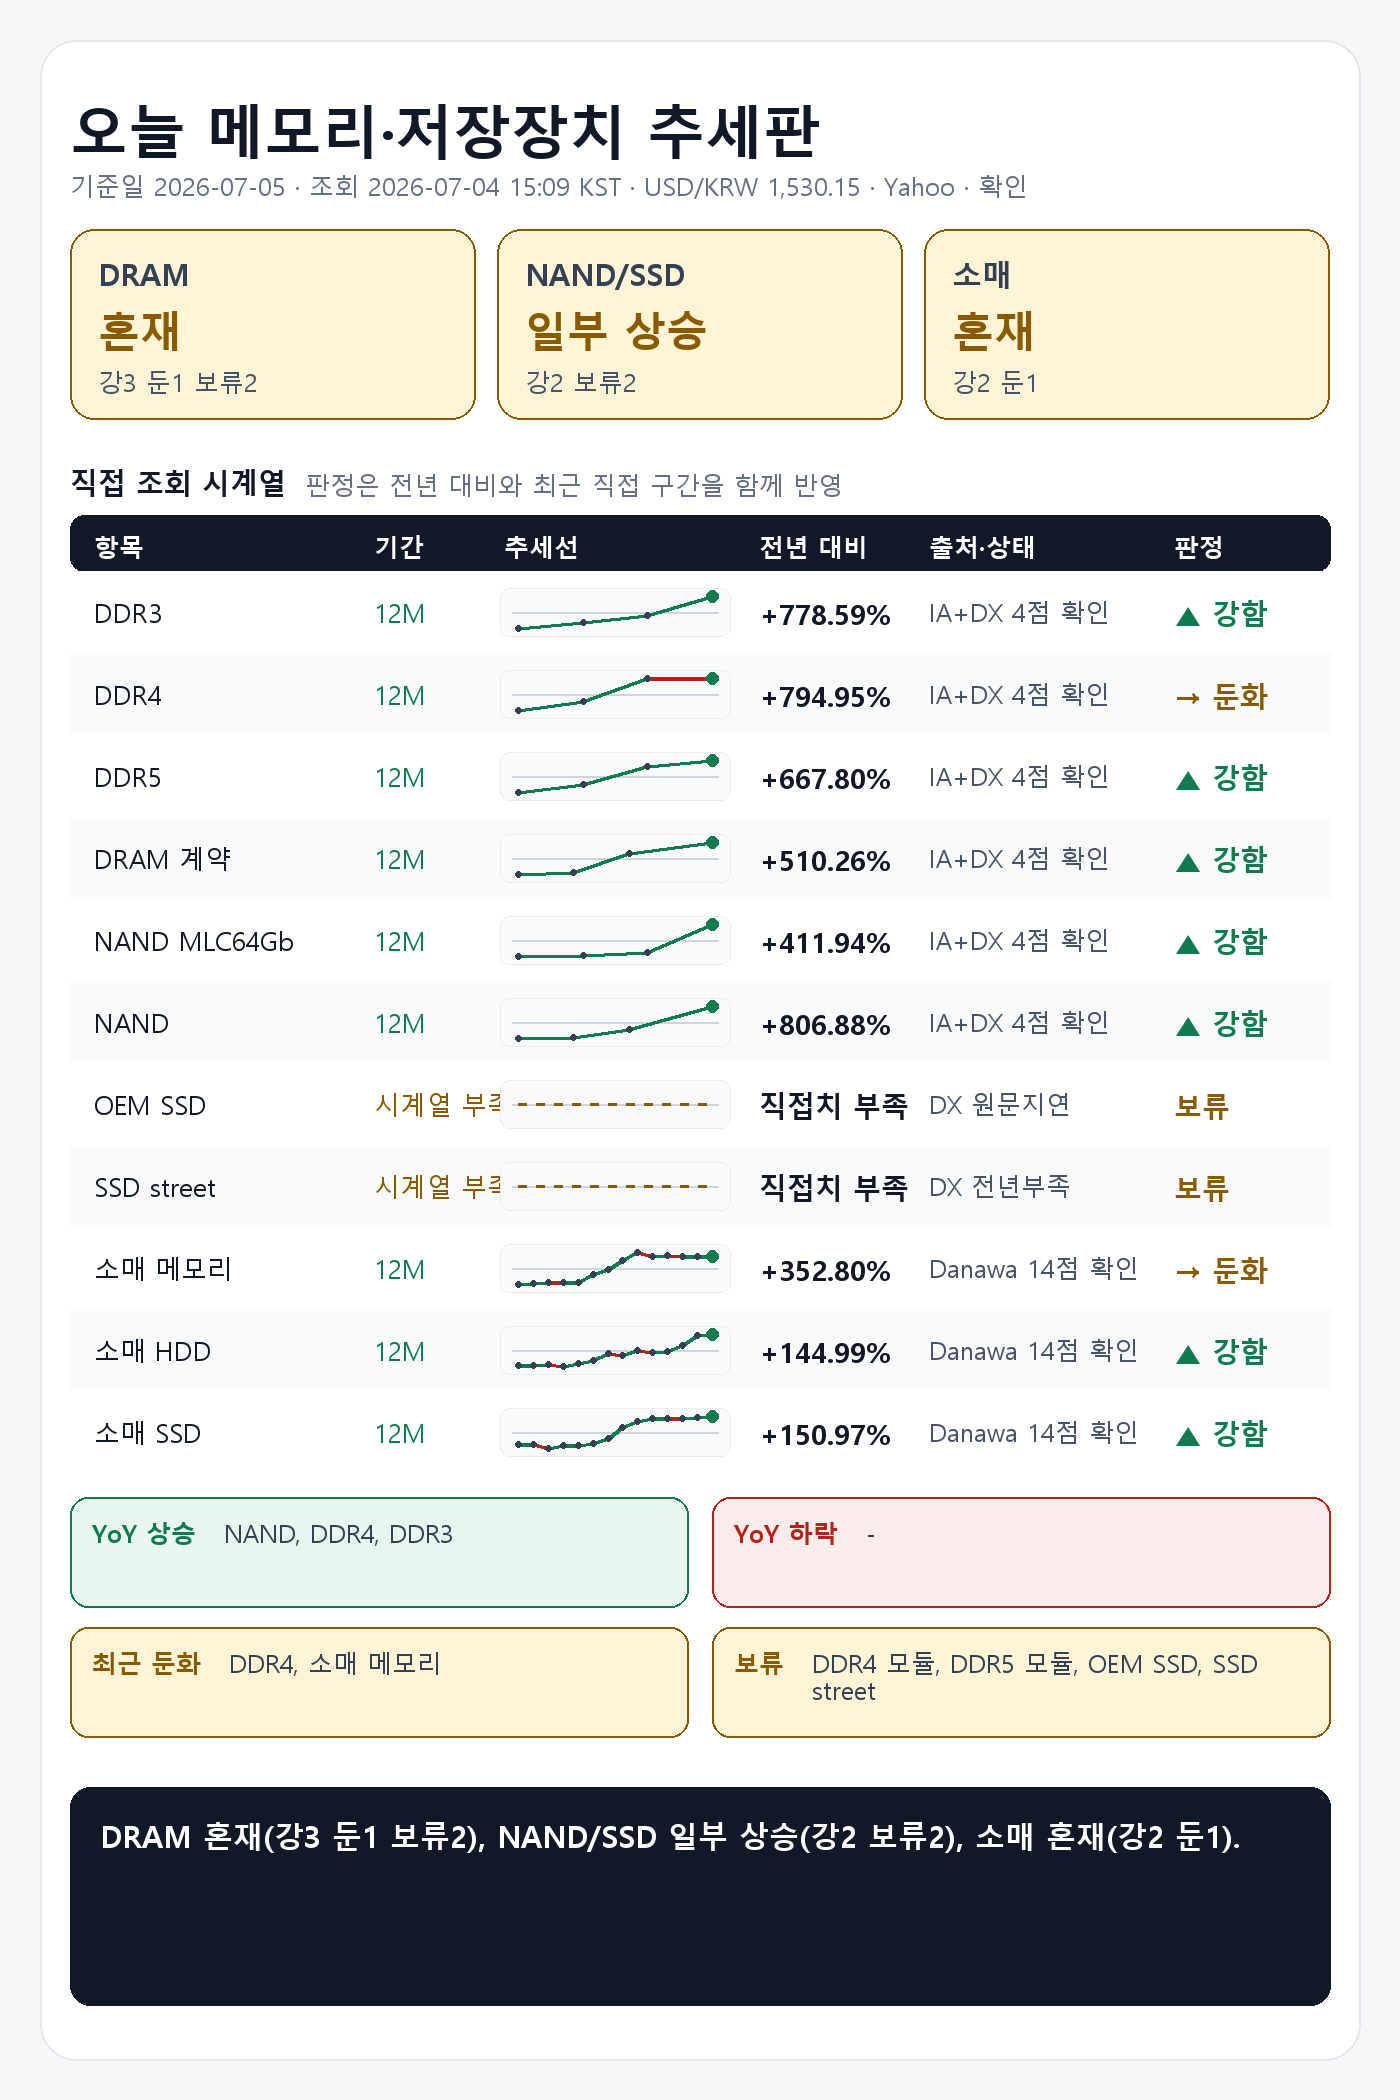
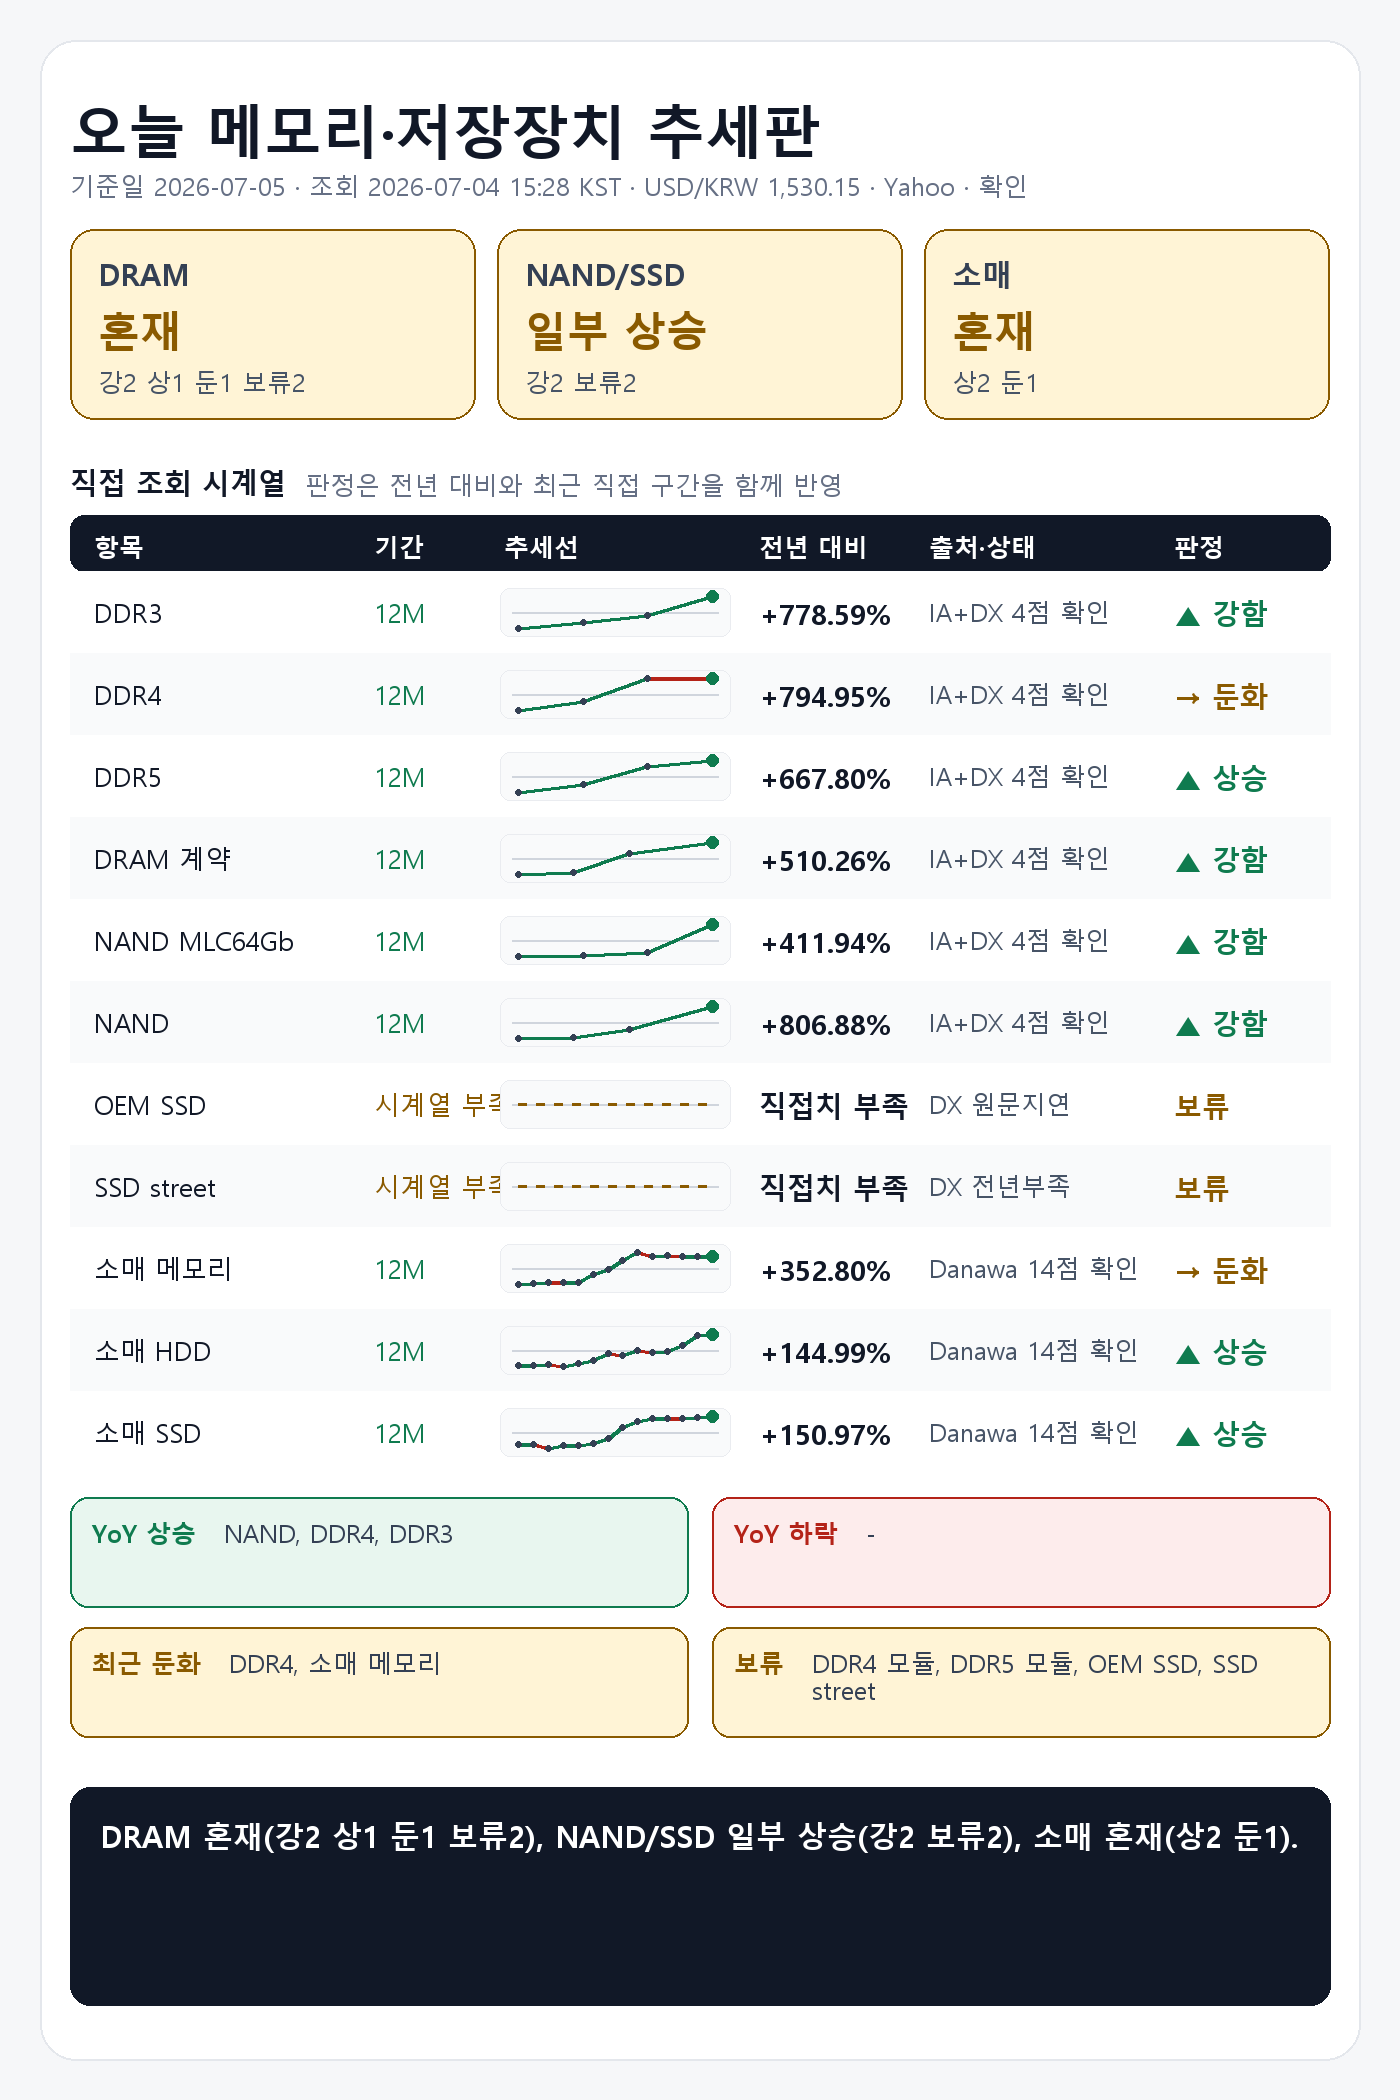
Make strong image verdicts stricter

Changed region(s): [[0.2764, 0.8667, 0.9214, 0.8976], [0.215, 0.8667, 0.2457, 0.8976], [0.1536, 0.1548, 0.1843, 0.1857]]

diff --git a/scripts/generate_memory_price_report.py b/scripts/generate_memory_price_report.py
@@ -43,6 +43,7 @@ REQUEST_RETRIES = 1
 IMAGE_TREND_MONTHS = 12
 IMAGE_TREND_POINTS = 4
 RECENT_TREND_THRESHOLD_PCT = 0.5
+STRONG_RECENT_TREND_THRESHOLD_PCT = 20.0
 MONTH_NAMES = ("Jan", "Feb", "Mar", "Apr", "May", "Jun", "Jul", "Aug", "Sep", "Oct", "Nov", "Dec")
 
 DRAMEXCHANGE_HOME = "https://www.dramexchange.com/"
@@ -1491,8 +1492,10 @@ def image_yoy_verdict(record: ReportRecord) -> str:
         return "판단 보류"
     yoy_pct = record.yoy_pct or 0
     if yoy_pct > RECENT_TREND_THRESHOLD_PCT:
-        if recent_pct > RECENT_TREND_THRESHOLD_PCT:
+        if recent_pct > STRONG_RECENT_TREND_THRESHOLD_PCT:
             return "강함"
+        if recent_pct > RECENT_TREND_THRESHOLD_PCT:
+            return "상승"
         return "둔화"
     if yoy_pct < -RECENT_TREND_THRESHOLD_PCT:
         if recent_pct > RECENT_TREND_THRESHOLD_PCT:
@@ -1571,8 +1574,10 @@ def group_yoy_direction(records: list[ReportRecord], group: str, require_series:
         return "판단 보류"
     recent_avg = sum(recent_values) / len(recent_values)
     if yoy_avg > RECENT_TREND_THRESHOLD_PCT:
-        if recent_avg > RECENT_TREND_THRESHOLD_PCT:
+        if recent_avg > STRONG_RECENT_TREND_THRESHOLD_PCT:
             return "강함"
+        if recent_avg > RECENT_TREND_THRESHOLD_PCT:
+            return "상승"
         return "둔화"
     if yoy_avg < -RECENT_TREND_THRESHOLD_PCT:
         if recent_avg > RECENT_TREND_THRESHOLD_PCT:
@@ -1770,9 +1775,9 @@ def save_audit(records: list[ReportRecord], rate: ExchangeRate, card: dict[str, 
             if not image_actionable_yoy(record):
                 row_status = "fail"
                 issues.append(f"strong verdict without direct YoY/series: {label}")
-            elif (record.yoy_pct or 0) <= RECENT_TREND_THRESHOLD_PCT or (recent_pct or 0) <= RECENT_TREND_THRESHOLD_PCT:
+            elif (record.yoy_pct or 0) <= RECENT_TREND_THRESHOLD_PCT or (recent_pct or 0) <= STRONG_RECENT_TREND_THRESHOLD_PCT:
                 row_status = "fail"
-                issues.append(f"strong verdict without YoY+recent confirmation: {label}")
+                issues.append(f"strong verdict without YoY+strong recent confirmation: {label}")
         row_checks.append(
             {
                 "label": label,
@@ -1847,6 +1852,11 @@ def save_audit(records: list[ReportRecord], rate: ExchangeRate, card: dict[str, 
         "query_time": QUERY_TIME,
         "status": status,
         "exchange_rate_status": rate.status,
+        "thresholds": {
+            "yoy_direction_pct": RECENT_TREND_THRESHOLD_PCT,
+            "recent_direction_pct": RECENT_TREND_THRESHOLD_PCT,
+            "strong_recent_pct": STRONG_RECENT_TREND_THRESHOLD_PCT,
+        },
         "checks": {
             "row_verdicts": row_checks,
             "group_boxes": group_checks,

diff --git a/reports/memory_price_report_2026-07-05.md b/reports/memory_price_report_2026-07-05.md
@@ -1,5 +1,5 @@
 ## 1. 기준 환율 1줄
-USD/KRW: 1,530.15원 (조회 2026-07-04 15:09 KST, 출처 Yahoo Finance USDKRW=X, 원문 Last Update 2026-07-04 05:27 KST, 상태 확인, 전일 대비 -0.33%).
+USD/KRW: 1,530.15원 (조회 2026-07-04 15:28 KST, 출처 Yahoo Finance USDKRW=X, 원문 Last Update 2026-07-04 05:27 KST, 상태 확인, 전일 대비 -0.33%).
 
 ## 2. 오늘 한눈에 추세판
 | 구분 | 현재값 | 전일 | 전주 | 전월 | 전년 | 추세 | 판정 |
@@ -27,22 +27,22 @@ USD/KRW: 1,530.15원 (조회 2026-07-04 15:09 KST, 출처 Yahoo Finance USDKRW=X
 ## 4. 가격표
 | 항목 | 현재값 | 조회 시각·출처·상태 | 원문 Last Update | 전월 대비 | 전년 대비 | 추세 |
 |---|---:|---|---|---|---|---|
-| DDR3 칩 | $12.476 (약 19,090원) | 2026-07-04 15:09 KST · DRAMeXchange 공개표 (https://www.dramexchange.com/Price/Dram_Spot) · 상태 확인 | 홈 공개표, 원문 Last Update 별도 없음, 항목 DDR3 4Gb 512Mx8 1600/1866 | 확인 불가 | 전년 대비 +778.59% · 전년값 캡처 2025-07-02 04:01 KST, 원문 Last Update 별도 없음, 항목 DDR3 4Gb 512Mx8 1600/1866 · 출처 Internet Archive DRAMeXchange 공개표 캡처 | 공개 변화율 +1.09% 기준 상승 |
-| DDR4 칩 | $76.375 (약 116,865원) | 2026-07-04 15:09 KST · DRAMeXchange 공개표 (https://www.dramexchange.com/Price/Dram_Spot) · 상태 확인 | 홈 공개표, 원문 Last Update 별도 없음, 항목 DDR4 16Gb (2Gx8) 3200 | 확인 불가 | 전년 대비 +794.95% · 전년값 캡처 2025-07-02 04:01 KST, 원문 Last Update 별도 없음, 항목 DDR4 16Gb (2Gx8)3200 · 출처 Internet Archive DRAMeXchange 공개표 캡처 | 공개 변화율 +1.16% 기준 상승 |
-| DDR5 칩 | $46.667 (약 71,408원) | 2026-07-04 15:09 KST · DRAMeXchange 공개표 (https://www.dramexchange.com/Price/Dram_Spot) · 상태 확인 | 홈 공개표, 원문 Last Update 별도 없음, 항목 DDR5 16Gb (2Gx8) 4800/5600 | 확인 불가 | 전년 대비 +667.80% · 전년값 캡처 2025-07-02 04:01 KST, 원문 Last Update 별도 없음, 항목 DDR5 16G (2Gx8) 4800/5600 · 출처 Internet Archive DRAMeXchange 공개표 캡처 | 공개 변화율 +0.07% 기준 보합 |
-| DDR4 모듈 | $149.576 (약 228,874원) | 2026-07-04 15:09 KST · DRAMeXchange 공개표 (https://www.dramexchange.com/Price/Module_Spot) · 상태 확인 | 홈 공개표, 원문 Last Update 별도 없음, 항목 DDR4 UDIMM 16GB 3200 | 확인 불가 | 전년 직접치 부족 | 공개 변화율 -0.23% 기준 보합 |
-| DDR5 모듈 | $208.500 (약 319,036원) | 2026-07-04 15:09 KST · DRAMeXchange 공개표 (https://www.dramexchange.com/Price/Module_Spot) · 상태 확인 | 홈 공개표, 원문 Last Update 별도 없음, 항목 DDR5 UDIMM 16GB 4800/5600 | 확인 불가 | 전년 직접치 부족 | 공개 변화율 -0.24% 기준 보합 |
-| DRAM 계약가 (DDR4 8GB SO-DIMM) | $119.000 (약 182,088원) | 2026-07-04 15:09 KST · DRAMeXchange HomePrice NationalDramContract (https://www.dramexchange.com/Price/NationalContractDramDetail) · 상태 확인 | 2026-05-29 15:00:00 | 공개 변화율 +0.00%, 기준값 확인 불가 | 전년 대비 +510.26% · 전년값 원문 2025-05-29 16:00:00, 캡처 2025-07-07 16:02 KST · 출처 Internet Archive DRAMeXchange HomePrice NationalDramContract 캡처 | 공개 변화율 +0.00% 기준 보합 |
-| NAND 웨이퍼 (MLC 64Gb) | $29.068 (약 44,478원) | 2026-07-04 15:09 KST · DRAMeXchange 공개표 (https://www.dramexchange.com/Price/Flash_Spot) · 상태 확인 | 홈 공개표, 원문 Last Update 별도 없음, 항목 MLC 64Gb 8GBx8 | 확인 불가 | 전년 대비 +411.94% · 전년값 캡처 2025-07-02 04:01 KST, 원문 Last Update 별도 없음, 항목 MLC 64Gb 8GBx8 · 출처 Internet Archive DRAMeXchange 공개표 캡처 | 공개 변화율 +3.14% 기준 상승 |
-| NAND 계약가 (NAND 128Gb 16Gx8 Speedns) | $26.508 (약 40,561원) | 2026-07-04 15:09 KST · DRAMeXchange HomePrice NationalFlashContract (https://www.dramexchange.com/Price/NationalContractFlashDetail) · 상태 확인 | 2026-05-29 10:00:00 | 공개 변화율 +9.73%, 기준값 확인 불가 | 전년 대비 +806.88% · 전년값 원문 2025-05-29 09:00:00, 캡처 2025-07-07 16:02 KST · 출처 Internet Archive DRAMeXchange HomePrice NationalFlashContract 캡처 | 공개 변화율 +9.73% 기준 상승 |
-| PC-client OEM SSD 계약가 (1TB-mSATA/M.2 TLC PCIe-Value Grade) | 지연/불일치 있음 | 2026-07-04 15:09 KST · DRAMeXchange HomePrice PCC (https://www.dramexchange.com/Price/PCClientOEMSSD) · 상태 지연/불일치 있음 | 2026-04-27 10:00:00 | 지연/불일치 있음 | 현재 직접치 부족 | 지연/불일치 있음 |
-| SSD street price (990 Pro) | $219.990 (약 336,618원) | 2026-07-04 15:09 KST · DRAMeXchange HomePrice SSD (https://www.dramexchange.com/Price/SSD_Street) · 상태 확인 | 2026-06-26 13:00:00 | 공개 변화율 -12.00%, 기준값 확인 불가 | 전년 직접치 부족 | 공개 변화율 -12.00% 기준 하락 |
-| 소매 메모리 (삼성전자 DDR5-5600 32GB) | 650,000원 | 2026-07-04 15:09 KST · Danawa prod 가격비교 · 삼성전자 DDR5-5600 32GB (https://prod.danawa.com/info/?pcode=20644043) · 상태 확인 | 상품 페이지 직접 조회, 원문 Last Update 별도 없음 | 확인 불가 | 전년 대비 +352.80% · 전년값 25-07 월간 가격추이 · 출처 Danawa 가격추이 24개월 · 삼성전자 DDR5-5600 32GB | 비교 기준값 확인 불가 |
-| 소매 HDD (Seagate BarraCuda 8TB) | 469,000원 | 2026-07-04 15:09 KST · Danawa prod 가격비교 · Seagate BarraCuda 8TB (https://prod.danawa.com/info/?pcode=5764992) · 상태 확인 | 상품 페이지 직접 조회, 원문 Last Update 별도 없음 | 확인 불가 | 전년 대비 +144.99% · 전년값 25-07 월간 가격추이 · 출처 Danawa 가격추이 24개월 · Seagate BarraCuda 8TB | 비교 기준값 확인 불가 |
-| 소매 SSD (Samsung 990 PRO 1TB) | 399,990원 | 2026-07-04 15:09 KST · Danawa prod 가격비교 · Samsung 990 PRO 1TB (https://prod.danawa.com/info/?pcode=18297002) · 상태 확인 | 상품 페이지 직접 조회, 원문 Last Update 별도 없음 | 확인 불가 | 전년 대비 +150.97% · 전년값 25-07 월간 가격추이 · 출처 Danawa 가격추이 24개월 · Samsung 990 PRO 1TB | 비교 기준값 확인 불가 |
+| DDR3 칩 | $12.476 (약 19,090원) | 2026-07-04 15:28 KST · DRAMeXchange 공개표 (https://www.dramexchange.com/Price/Dram_Spot) · 상태 확인 | 홈 공개표, 원문 Last Update 별도 없음, 항목 DDR3 4Gb 512Mx8 1600/1866 | 확인 불가 | 전년 대비 +778.59% · 전년값 캡처 2025-07-02 04:01 KST, 원문 Last Update 별도 없음, 항목 DDR3 4Gb 512Mx8 1600/1866 · 출처 Internet Archive DRAMeXchange 공개표 캡처 | 공개 변화율 +1.09% 기준 상승 |
+| DDR4 칩 | $76.375 (약 116,865원) | 2026-07-04 15:28 KST · DRAMeXchange 공개표 (https://www.dramexchange.com/Price/Dram_Spot) · 상태 확인 | 홈 공개표, 원문 Last Update 별도 없음, 항목 DDR4 16Gb (2Gx8) 3200 | 확인 불가 | 전년 대비 +794.95% · 전년값 캡처 2025-07-02 04:01 KST, 원문 Last Update 별도 없음, 항목 DDR4 16Gb (2Gx8)3200 · 출처 Internet Archive DRAMeXchange 공개표 캡처 | 공개 변화율 +1.16% 기준 상승 |
+| DDR5 칩 | $46.667 (약 71,408원) | 2026-07-04 15:28 KST · DRAMeXchange 공개표 (https://www.dramexchange.com/Price/Dram_Spot) · 상태 확인 | 홈 공개표, 원문 Last Update 별도 없음, 항목 DDR5 16Gb (2Gx8) 4800/5600 | 확인 불가 | 전년 대비 +667.80% · 전년값 캡처 2025-07-02 04:01 KST, 원문 Last Update 별도 없음, 항목 DDR5 16G (2Gx8) 4800/5600 · 출처 Internet Archive DRAMeXchange 공개표 캡처 | 공개 변화율 +0.07% 기준 보합 |
+| DDR4 모듈 | $149.576 (약 228,874원) | 2026-07-04 15:28 KST · DRAMeXchange 공개표 (https://www.dramexchange.com/Price/Module_Spot) · 상태 확인 | 홈 공개표, 원문 Last Update 별도 없음, 항목 DDR4 UDIMM 16GB 3200 | 확인 불가 | 전년 직접치 부족 | 공개 변화율 -0.23% 기준 보합 |
+| DDR5 모듈 | $208.500 (약 319,036원) | 2026-07-04 15:28 KST · DRAMeXchange 공개표 (https://www.dramexchange.com/Price/Module_Spot) · 상태 확인 | 홈 공개표, 원문 Last Update 별도 없음, 항목 DDR5 UDIMM 16GB 4800/5600 | 확인 불가 | 전년 직접치 부족 | 공개 변화율 -0.24% 기준 보합 |
+| DRAM 계약가 (DDR4 8GB SO-DIMM) | $119.000 (약 182,088원) | 2026-07-04 15:28 KST · DRAMeXchange HomePrice NationalDramContract (https://www.dramexchange.com/Price/NationalContractDramDetail) · 상태 확인 | 2026-05-29 15:00:00 | 공개 변화율 +0.00%, 기준값 확인 불가 | 전년 대비 +510.26% · 전년값 원문 2025-05-29 16:00:00, 캡처 2025-07-07 16:02 KST · 출처 Internet Archive DRAMeXchange HomePrice NationalDramContract 캡처 | 공개 변화율 +0.00% 기준 보합 |
+| NAND 웨이퍼 (MLC 64Gb) | $29.068 (약 44,478원) | 2026-07-04 15:28 KST · DRAMeXchange 공개표 (https://www.dramexchange.com/Price/Flash_Spot) · 상태 확인 | 홈 공개표, 원문 Last Update 별도 없음, 항목 MLC 64Gb 8GBx8 | 확인 불가 | 전년 대비 +411.94% · 전년값 캡처 2025-07-02 04:01 KST, 원문 Last Update 별도 없음, 항목 MLC 64Gb 8GBx8 · 출처 Internet Archive DRAMeXchange 공개표 캡처 | 공개 변화율 +3.14% 기준 상승 |
+| NAND 계약가 (NAND 128Gb 16Gx8 Speedns) | $26.508 (약 40,561원) | 2026-07-04 15:28 KST · DRAMeXchange HomePrice NationalFlashContract (https://www.dramexchange.com/Price/NationalContractFlashDetail) · 상태 확인 | 2026-05-29 10:00:00 | 공개 변화율 +9.73%, 기준값 확인 불가 | 전년 대비 +806.88% · 전년값 원문 2025-05-29 09:00:00, 캡처 2025-07-07 16:02 KST · 출처 Internet Archive DRAMeXchange HomePrice NationalFlashContract 캡처 | 공개 변화율 +9.73% 기준 상승 |
+| PC-client OEM SSD 계약가 (1TB-mSATA/M.2 TLC PCIe-Value Grade) | 지연/불일치 있음 | 2026-07-04 15:28 KST · DRAMeXchange HomePrice PCC (https://www.dramexchange.com/Price/PCClientOEMSSD) · 상태 지연/불일치 있음 | 2026-04-27 10:00:00 | 지연/불일치 있음 | 현재 직접치 부족 | 지연/불일치 있음 |
+| SSD street price (990 Pro) | $219.990 (약 336,618원) | 2026-07-04 15:28 KST · DRAMeXchange HomePrice SSD (https://www.dramexchange.com/Price/SSD_Street) · 상태 확인 | 2026-06-26 13:00:00 | 공개 변화율 -12.00%, 기준값 확인 불가 | 전년 직접치 부족 | 공개 변화율 -12.00% 기준 하락 |
+| 소매 메모리 (삼성전자 DDR5-5600 32GB) | 650,000원 | 2026-07-04 15:28 KST · Danawa prod 가격비교 · 삼성전자 DDR5-5600 32GB (https://prod.danawa.com/info/?pcode=20644043) · 상태 확인 | 상품 페이지 직접 조회, 원문 Last Update 별도 없음 | 확인 불가 | 전년 대비 +352.80% · 전년값 25-07 월간 가격추이 · 출처 Danawa 가격추이 24개월 · 삼성전자 DDR5-5600 32GB | 비교 기준값 확인 불가 |
+| 소매 HDD (Seagate BarraCuda 8TB) | 469,000원 | 2026-07-04 15:28 KST · Danawa prod 가격비교 · Seagate BarraCuda 8TB (https://prod.danawa.com/info/?pcode=5764992) · 상태 확인 | 상품 페이지 직접 조회, 원문 Last Update 별도 없음 | 확인 불가 | 전년 대비 +144.99% · 전년값 25-07 월간 가격추이 · 출처 Danawa 가격추이 24개월 · Seagate BarraCuda 8TB | 비교 기준값 확인 불가 |
+| 소매 SSD (Samsung 990 PRO 1TB) | 399,990원 | 2026-07-04 15:28 KST · Danawa prod 가격비교 · Samsung 990 PRO 1TB (https://prod.danawa.com/info/?pcode=18297002) · 상태 확인 | 상품 페이지 직접 조회, 원문 Last Update 별도 없음 | 확인 불가 | 전년 대비 +150.97% · 전년값 25-07 월간 가격추이 · 출처 Danawa 가격추이 24개월 · Samsung 990 PRO 1TB | 비교 기준값 확인 불가 |
 
 ## 5. 마지막 한 줄
-전년 기준으로 가장 강한 쪽은 NAND 계약가, 가장 약한 쪽은 소매 HDD, DRAM 전년+최근 판정은 혼재(강3 둔1 보류2), NAND/SSD 전년+최근 판정은 일부 상승(강2 보류2), 소매 전년+최근 판정은 혼재(강2 둔1).
+전년 기준으로 가장 강한 쪽은 NAND 계약가, 가장 약한 쪽은 소매 HDD, DRAM 전년+최근 판정은 혼재(강2 상1 둔1 보류2), NAND/SSD 전년+최근 판정은 일부 상승(강2 보류2), 소매 전년+최근 판정은 혼재(상2 둔1).
 
 ## 6. 마지막 이미지형 요약판
 ![오늘 메모리·저장장치 추세판](memory_price_summary_2026-07-05.png)

diff --git a/reports/audits/memory_price_audit_2026-07-05.md b/reports/audits/memory_price_audit_2026-07-05.md
@@ -1,23 +1,23 @@
 # 메모리 가격 보고서 검산 - 2026-07-05
 
 - 상태: 통과
-- 조회 시각: 2026-07-04 15:09 KST
+- 조회 시각: 2026-07-04 15:28 KST
 - 기준일: 2026-07-05
 - 이슈 수: 0
 
 ## 상단 그룹 박스 검산
 | 그룹 | 기대 판정 | 기대 구성 | 이미지 판정 | 이미지 구성 | 상태 |
 |---|---|---|---|---|---|
-| DRAM | 혼재 | 강3 둔1 보류2 | 혼재 | 강3 둔1 보류2 | pass |
+| DRAM | 혼재 | 강2 상1 둔1 보류2 | 혼재 | 강2 상1 둔1 보류2 | pass |
 | NAND/SSD | 일부 상승 | 강2 보류2 | 일부 상승 | 강2 보류2 | pass |
-| 소매 | 혼재 | 강2 둔1 | 혼재 | 강2 둔1 | pass |
+| 소매 | 혼재 | 상2 둔1 | 혼재 | 상2 둔1 | pass |
 
 ## 행별 이미지 판정 검산
 | 항목 | 상태 | YoY | 포인트 | 최근 직접 구간 | 기대 | 이미지 | 검산 |
 |---|---|---:|---:|---:|---|---|---|
 | DDR3 | 확인 / 확인 | 778.59% | 4 | 106.62% | 강함 | 강함 | pass |
 | DDR4 | 확인 / 확인 | 794.95% | 4 | -1.37% | 둔화 | 둔화 | pass |
-| DDR5 | 확인 / 확인 | 667.80% | 4 | 17.65% | 강함 | 강함 | pass |
+| DDR5 | 확인 / 확인 | 667.80% | 4 | 17.65% | 상승 | 상승 | pass |
 | DDR4 모듈 | 확인 / 전년 직접치 부족 | - | 2 | 21.94% | 보류 | not in image table | pass |
 | DDR5 모듈 | 확인 / 전년 직접치 부족 | - | 2 | -14.90% | 보류 | not in image table | pass |
 | DRAM 계약 | 확인 / 확인 | 510.26% | 4 | 40.00% | 강함 | 강함 | pass |
@@ -26,8 +26,8 @@
 | OEM SSD | 지연/불일치 있음 / 현재 직접치 부족 | - | 0 | - | 보류 | 보류 | pass |
 | SSD street | 확인 / 전년 직접치 부족 | - | 1 | - | 보류 | 보류 | pass |
 | 소매 메모리 | 확인 / 확인 | 352.80% | 14 | 0.00% | 둔화 | 둔화 | pass |
-| 소매 HDD | 확인 / 확인 | 144.99% | 14 | 2.40% | 강함 | 강함 | pass |
-| 소매 SSD | 확인 / 확인 | 150.97% | 14 | 1.26% | 강함 | 강함 | pass |
+| 소매 HDD | 확인 / 확인 | 144.99% | 14 | 2.40% | 상승 | 상승 | pass |
+| 소매 SSD | 확인 / 확인 | 150.97% | 14 | 1.26% | 상승 | 상승 | pass |
 
 ## PCPartPicker 보조자료 검산
 - 상태: pass

diff --git a/README_MEMORY_PRICE_AUTOMATION.md b/README_MEMORY_PRICE_AUTOMATION.md
@@ -6,7 +6,7 @@
 
 OpenAI API를 사용하지 않습니다. 스크립트가 직접 접근 가능한 웹/API만 조회하고, 조회 실패, 지연 데이터, 출처 간 불일치, 접근 제한, 기준값 부족이 있으면 값을 추정하거나 재사용하지 않고 `확인 불가` 또는 `지연/불일치 있음`으로 표시합니다.
 
-이미지 요약판은 가장 엄격한 출력물이자 전년 대비 추세 확인용 화면으로 처리합니다. 이미지는 기존 표형 요약판 레이아웃을 유지하고, 각 행의 미니 추세선은 최근 12개월 직접 조회 시계열 포인트만 사용합니다. 이미지 안에는 `확인` 상태의 현재 직접 조회값과 현재 접근 가능한 전년 직접 조회값이 모두 있을 때만 전년 대비 숫자를 표시합니다. 이미지의 `판정`은 더 엄격하게 처리해, 전년 직접치와 3개 이상의 직접 조회 시계열 포인트가 모두 있고 마지막 직접 시계열 구간도 상승할 때만 `강함`으로 표시합니다. 전년 대비는 상승이지만 최근 직접 구간이 보합 또는 하락이면 `둔화`로 표시하고, 하나라도 부족하면 `보류`로 표시합니다. 상단 그룹 박스는 평균값으로 뭉개지 않고 그룹 안의 `강함`, `둔화`, `보류` 구성을 함께 반영해 `상승`, `일부 상승`, `혼재`, `보류`로 표시합니다. 추세선은 최소 3개 이상의 직접 조회 시계열 포인트가 있을 때만 실제 선으로 표시하며, 시계열 포인트의 월 라벨을 기준으로 x축 위치를 잡습니다. 전년값과 시계열은 DRAMeXchange 공개표의 Internet Archive 캡처, Danawa 24개월 가격추이 API, 또는 저장소에 쌓인 검증 스냅샷 순서로 확인합니다. 전년 직접치가 없거나 로그인/유료/접근제한/지연 데이터/품목 불일치 등으로 과거 시계열을 직접 확인하지 못하면 임의 추세선을 만들지 않고 `전년 직접치 부족` 또는 `시계열 부족`으로 표시합니다. `확인 불가` 또는 `지연/불일치 있음` 상태인 값은 원본 객체에 숫자가 남아 있어도 이미지에서 숫자나 추세선으로 노출하지 않고 보류로 표시합니다.
+이미지 요약판은 가장 엄격한 출력물이자 전년 대비 추세 확인용 화면으로 처리합니다. 이미지는 기존 표형 요약판 레이아웃을 유지하고, 각 행의 미니 추세선은 최근 12개월 직접 조회 시계열 포인트만 사용합니다. 이미지 안에는 `확인` 상태의 현재 직접 조회값과 현재 접근 가능한 전년 직접 조회값이 모두 있을 때만 전년 대비 숫자를 표시합니다. 이미지의 `판정`은 더 엄격하게 처리해, 전년 직접치와 3개 이상의 직접 조회 시계열 포인트가 모두 있고 마지막 직접 시계열 구간이 +20% 초과로 상승할 때만 `강함`으로 표시합니다. 전년 대비는 상승이지만 최근 직접 구간이 +0.5% 초과, +20% 이하이면 `상승`, 보합 또는 하락이면 `둔화`로 표시하고, 하나라도 부족하면 `보류`로 표시합니다. 상단 그룹 박스는 평균값으로 뭉개지 않고 그룹 안의 `강함`, `상승`, `둔화`, `보류` 구성을 함께 반영해 `상승`, `일부 상승`, `혼재`, `보류`로 표시합니다. 추세선은 최소 3개 이상의 직접 조회 시계열 포인트가 있을 때만 실제 선으로 표시하며, 시계열 포인트의 월 라벨을 기준으로 x축 위치를 잡습니다. 전년값과 시계열은 DRAMeXchange 공개표의 Internet Archive 캡처, Danawa 24개월 가격추이 API, 또는 저장소에 쌓인 검증 스냅샷 순서로 확인합니다. 전년 직접치가 없거나 로그인/유료/접근제한/지연 데이터/품목 불일치 등으로 과거 시계열을 직접 확인하지 못하면 임의 추세선을 만들지 않고 `전년 직접치 부족` 또는 `시계열 부족`으로 표시합니다. `확인 불가` 또는 `지연/불일치 있음` 상태인 값은 원본 객체에 숫자가 남아 있어도 이미지에서 숫자나 추세선으로 노출하지 않고 보류로 표시합니다.
 
 ## 작동 방식
 